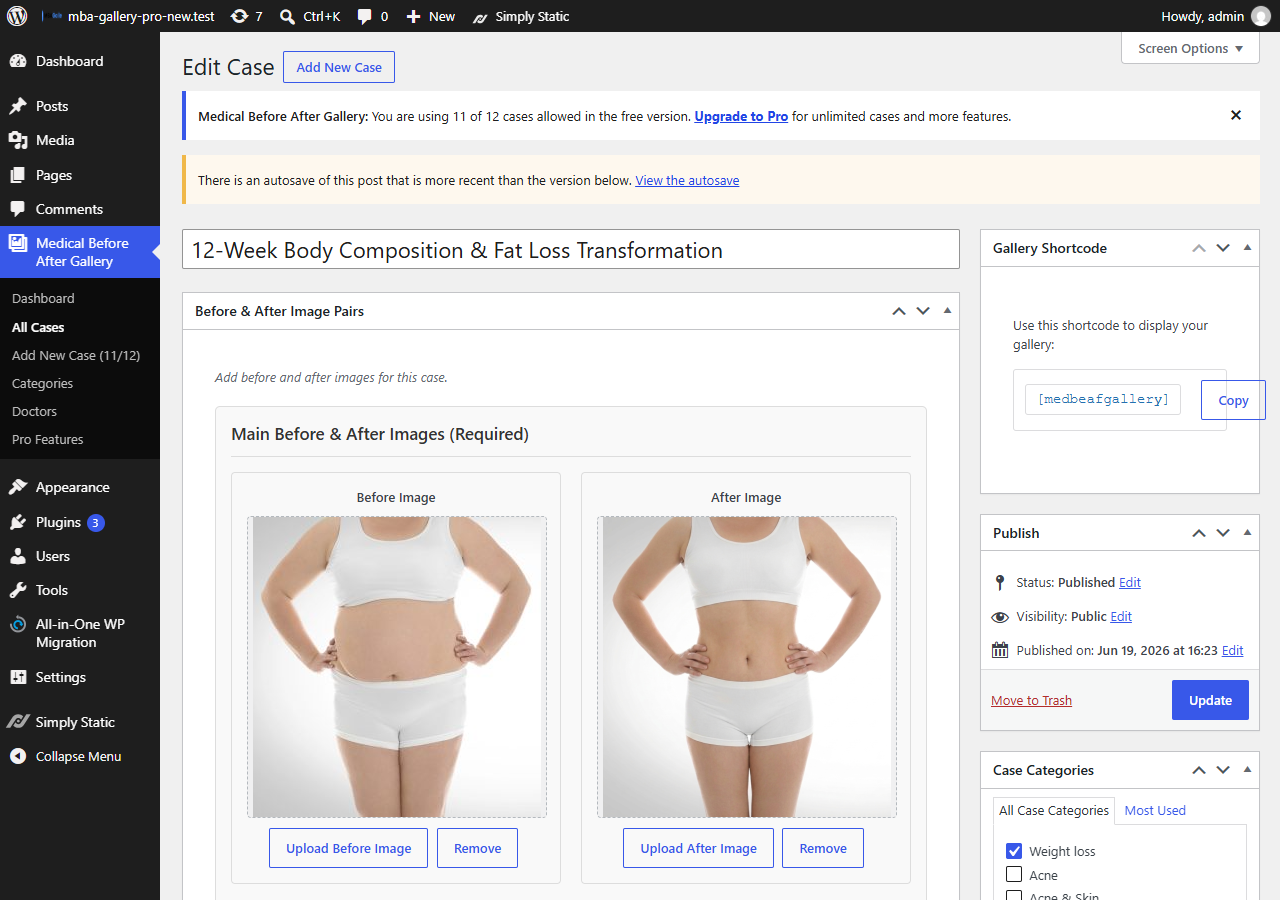
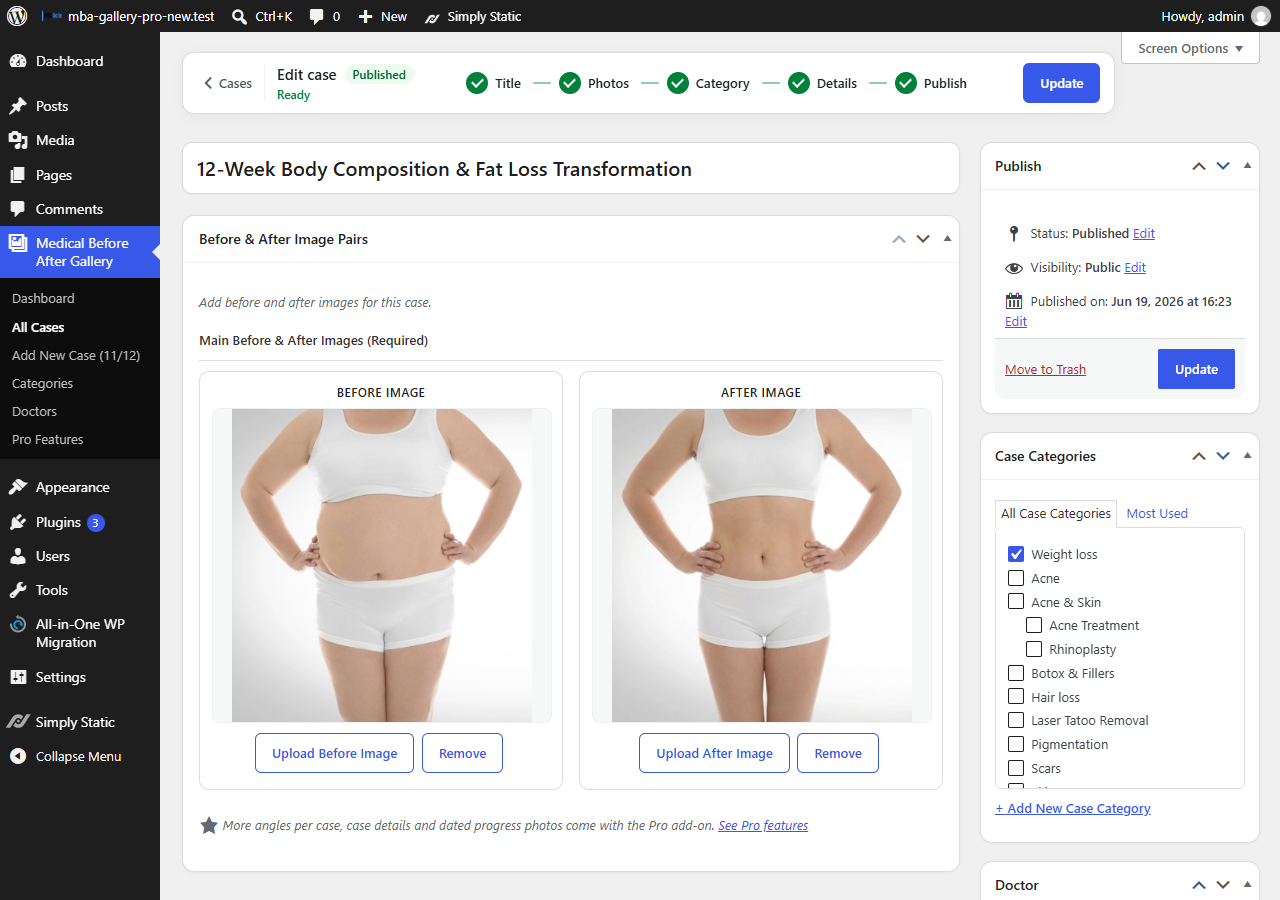
fix(admin): Delete no longer cut off on narrow doctor cards; new screenshots
- Four doctor cards in a row on a 1280px screen are ~255px wide, narrower
  than their actions row, so Delete ran past the card's edge. Below 270px
  (container query on the card) Delete keeps only its icon, its text stays
  for screen readers, and the row may wrap.
- WordPress.org screenshots: #4 the guided case editor, #6 the Doctors
  directory, new #8 the Cases screen (free plugin only, 11 of 12 cases);
  captions updated.

diff --git a/admin/css/doctors-manager.css b/admin/css/doctors-manager.css
@@ -397,6 +397,39 @@ a.medbeafgallery-dm-profile:hover {
     color: #8a2424;
 }
 
+/* Narrow cards (four in a row on a 1280px screen are ~255px wide): the actions
+   row is wider than the card, so Delete keeps only its icon (its text stays for
+   screen readers) and, failing container queries, the row wraps instead of
+   pushing the button past the card's edge. */
+.medbeafgallery-dm-card {
+    container-type: inline-size;
+}
+
+.medbeafgallery-dm-card-actions,
+.medbeafgallery-dm-buttons {
+    flex-wrap: wrap;
+}
+
+@container (max-width: 270px) {
+    .medbeafgallery-dm-card-actions {
+        gap: 4px;
+        padding: 10px 8px;
+    }
+
+    .medbeafgallery-dm-delete {
+        padding: 0 8px;
+    }
+
+    .medbeafgallery-dm-delete-text {
+        position: absolute;
+        width: 1px;
+        height: 1px;
+        overflow: hidden;
+        clip: rect(1px, 1px, 1px, 1px);
+        white-space: nowrap;
+    }
+}
+
 /* Reorder controls */
 .medbeafgallery-dm-order {
     display: flex;
